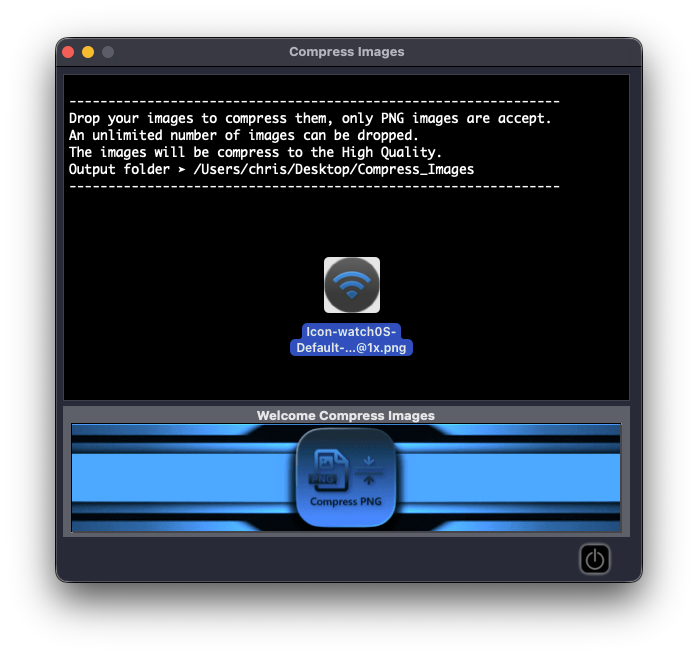
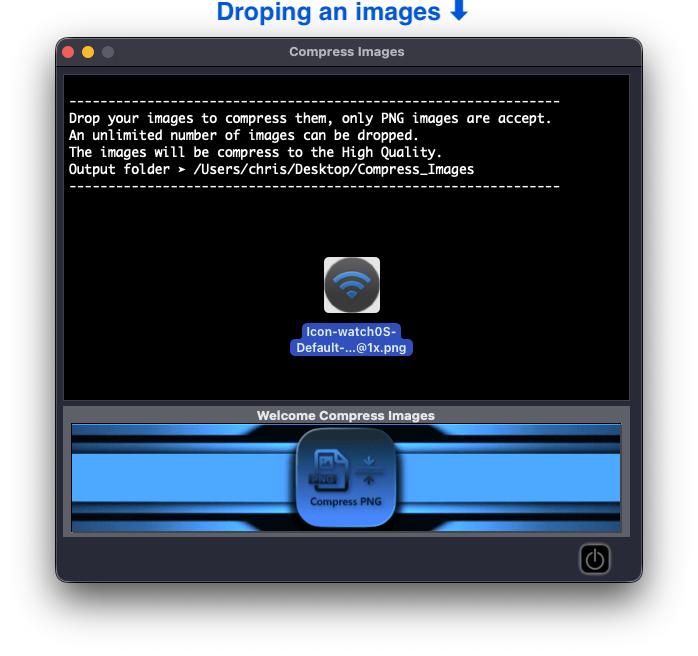
Update screenshots and layout in README and index.html
Adjusted image sizes and layout in README.md and index.html for improved visual presentation. Replaced separate sections for input/output screenshots with side-by-side display and updated the screenshot images.

Changed region(s): [[0.3009, 0.0, 0.692, 0.061]]

diff --git a/index.html b/index.html
@@ -359,11 +359,7 @@ function myFunction() {
   alert("Paste the command in Terminal: " + copyText.value);
 }
 </script>
-
-<h3 id="output-">Droping an images ⬇</h3>
-<p><img src="Source/Screenshot.png" alt="Icons Project" style="width:75%;"></p>
-<h3 id="output-">Output ⬇</h3>
-<p><img src="Source/Screenshot-Output.png" alt="Icons Project" style="width:75%;"></p>
+<p><img src="Source/Screenshot.png" alt="Icons Project" style="width:50%;"><img src="Source/Screenshot-Output.png" alt="Icons Project" style="width:50%;"></p>
 </div>
     </div>
   </body>

diff --git a/README.md b/README.md
@@ -14,7 +14,7 @@ Credit: [chris1111](https://github.com/chris1111), [pngquant](https://github.com
 - Easy to integrate with shell scripts, GUIs and server-side software.
 - Fast mode for real-time processing/large numbers of images.
 
-<img src="Source/Pics-1.png" alt="Icons Project" style="width:50%;"><img src="Source/Pics-2.png" alt="Icons Project" style="width:50%;">
+<img src="Source/Pics-1.png" alt="Icons Project" style="width:40%;"><img src="Source/Pics-2.png" alt="Icons Project" style="width:40%;">
 
 ## Download Release ➤ [Compress Images](https://github.com/chris1111/Compress-Images/releases/tag/V1)
 
@@ -23,8 +23,7 @@ Credit: [chris1111](https://github.com/chris1111), [pngquant](https://github.com
 git clone https://github.com/chris1111/Compress-Images.git && cd $HOME/Compress-Images && mkdir -p ./"Compress Images.app" && cp -rp ./Source/Contents ./"Compress Images.app" && Open -R ./"Compress Images.app"
 ```
 
-## Droping an images ⬇
-<img src="Source/Screenshot.png" alt="Icons Project" style="width:75%;">
+<img src="Source/Screenshot.png" alt="Icons Project" style="width:50%;"><img src="Source/Screenshot-Output.png" alt="Icons Project" style="width:50%;">
 
-## Output ⬇
-<img src="Source/Screenshot-Output.png" alt="Icons Project" style="width:75%;">
+
+
